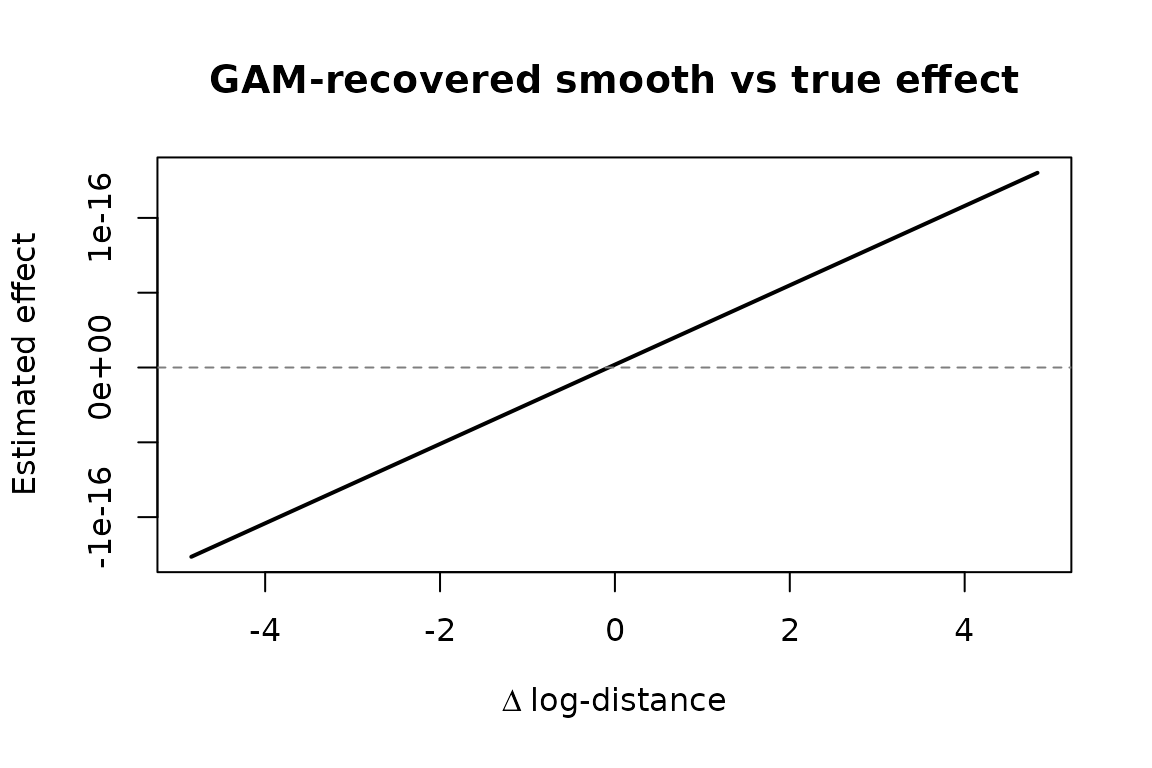
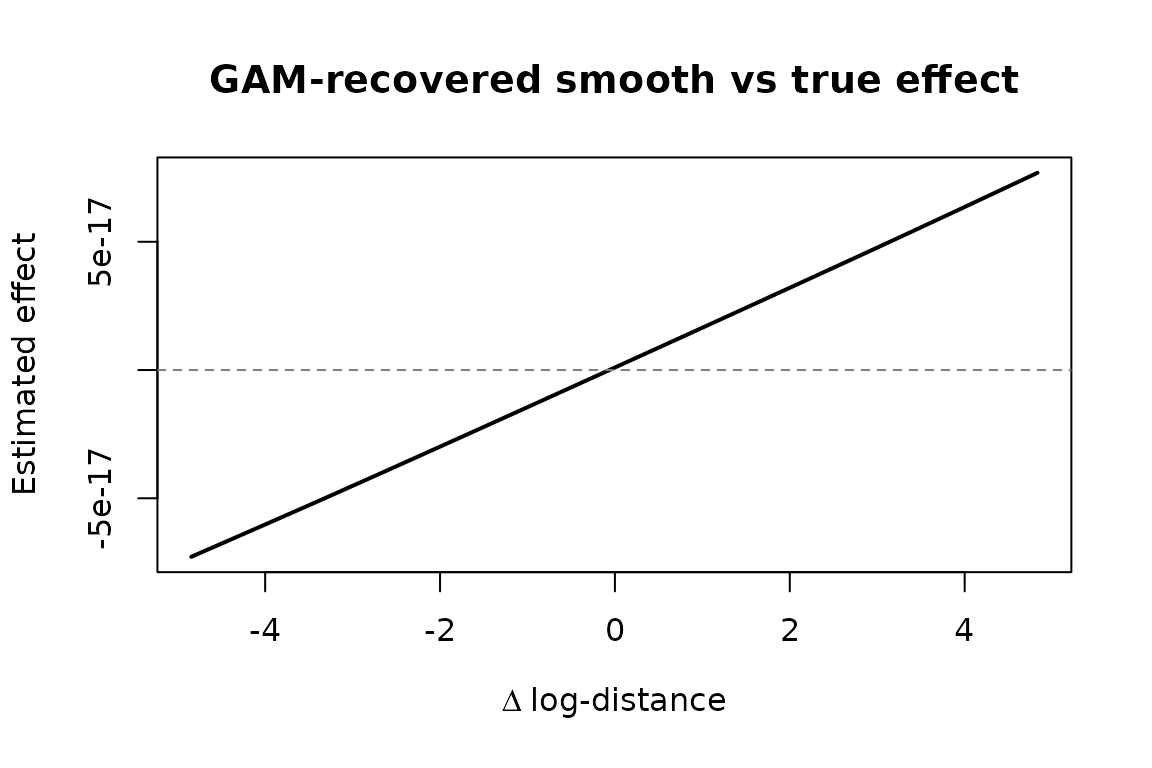
Deploying to gh-pages from @ franciscorichter/amore@3fbfca5582cac013fc1c39b606e87677beb72bbd 🚀

diff --git a/articles/estimation.html b/articles/estimation.html
@@ -618,7 +618,7 @@ Currently linear-effect specs only.</p>
 <hr>
 </div>
 <div class="section level3">
-<h3 id="the-neural-backend-and-related-work">The neural backend and related work<a class="anchor" aria-label="anchor" href="#the-neural-backend-and-related-work"></a>
+<h3 id="the-neural-backend">The neural backend<a class="anchor" aria-label="anchor" href="#the-neural-backend"></a>
 </h3>
 <p><code>amore</code> ships a neural estimation backend,
 <code>rem(method = "nn")</code> (described above): a single multilayer
@@ -630,26 +630,13 @@ additive <code>gam</code> backend cannot — at the cost of a coefficient
 table (effects are recovered post-hoc via partial-dependence plots) and,
 for now, of uncertainty quantification. The implementation is pure R
 with no extra dependencies, so it is reachable directly from
-<code><a href="https://rdrr.io/r/utils/install.packages.html" class="external-link">install.packages()</a></code>.</p>
-<p>This complements <strong>DREAM</strong> (<a href="https://doi.org/10.1016/j.socnet.2024.05.004" class="external-link">Filippi-Mazzola
-&amp; Wit 2024, <em>Social Networks</em> 79, 25-33</a>), the deep
-relational-event model from the same group, which is best seen as
-related prior work rather than part of <code>amore</code>. DREAM is a
-<em>Neural Additive Model</em>: each effect
-<math display="inline" xmlns="http://www.w3.org/1998/Math/MathML"><semantics><mrow><msub><mi>f</mi><mi>k</mi></msub><mo stretchy="false" form="prefix">(</mo><msub><mi>x</mi><mrow><mi>s</mi><mi>r</mi><mi>k</mi></mrow></msub><mo stretchy="false" form="postfix">)</mo></mrow><annotation encoding="application/x-tex">f_k(x_{srk})</annotation></semantics></math>
-is fit by an <strong>independent</strong> feed-forward network — so,
-like <code>gam</code>, it stays additive across effects — trained on the
-same case-1-control partial likelihood, with a <code>torch</code>
-backend and bootstrap / Gaussian-process uncertainty bands. DREAM
-targets very large networks where a spline-basis GAM becomes a memory
-bottleneck. It is not implemented in <code>amore</code>;
-<code>amore</code>’s <code>nn</code> backend takes the complementary,
-interaction-capable (non-additive) route in pure R.</p>
-<p><strong>Future directions.</strong> A DREAM-style additive-NN
-architecture, an optional <code>torch</code> engine for depth and GPU,
-factor embeddings (a neural analogue of <code>re()</code>), and
-uncertainty quantification for <code>method = "nn"</code> are natural
-extensions.</p>
+<code><a href="https://rdrr.io/r/utils/install.packages.html" class="external-link">install.packages()</a></code>. See the <a href="validation-experiments.html">Validation experiments</a> for a
+gradient-correctness check and an interaction-recovery comparison
+against the linear backend.</p>
+<p><strong>Future directions.</strong> An optional <code>torch</code>
+engine for depth and GPU, factor embeddings (a neural analogue of
+<code>re()</code>), and uncertainty quantification for
+<code>method = "nn"</code> are natural extensions.</p>
 </div>
 </div>
   </main><aside class="col-md-3"><nav id="toc" aria-label="Table of contents"><h2>On this page</h2>

diff --git a/articles/exogenous-covariates.html b/articles/exogenous-covariates.html
@@ -193,7 +193,7 @@ event for downstream inference:</p>
 <span><span class="co">#&gt;               edf Ref.df Chi.sq p-value</span></span>
 <span><span class="co">#&gt; s(delta_dist)   1      1      0       1</span></span>
 <span><span class="co">#&gt; </span></span>
-<span><span class="co">#&gt; R-sq.(adj) =   -Inf   Deviance explained = -Inf%</span></span>
+<span><span class="co">#&gt; R-sq.(adj) =    NaN   Deviance explained = -Inf%</span></span>
 <span><span class="co">#&gt; UBRE = 0.38879  Scale est. = 1         n = 800</span></span></code></pre></div>
 </div>
 <div class="section level2">

diff --git a/articles/estimation.md b/articles/estimation.md
@@ -463,7 +463,7 @@ Currently linear-effect specs only.
 
 ------------------------------------------------------------------------
 
-### The neural backend and related work
+### The neural backend
 
 `amore` ships a neural estimation backend, `rem(method = "nn")`
 (described above): a single multilayer perceptron scores every candidate
@@ -475,21 +475,11 @@ table (effects are recovered post-hoc via partial-dependence plots) and,
 for now, of uncertainty quantification. The implementation is pure R
 with no extra dependencies, so it is reachable directly from
 [`install.packages()`](https://rdrr.io/r/utils/install.packages.html).
+See the [Validation
+experiments](https://franciscorichter.github.io/amore/articles/validation-experiments.md)
+for a gradient-correctness check and an interaction-recovery comparison
+against the linear backend.
 
-This complements **DREAM** ([Filippi-Mazzola & Wit 2024, *Social
-Networks* 79, 25-33](https://doi.org/10.1016/j.socnet.2024.05.004)), the
-deep relational-event model from the same group, which is best seen as
-related prior work rather than part of `amore`. DREAM is a *Neural
-Additive Model*: each effect $`f_k(x_{srk})`$ is fit by an
-**independent** feed-forward network — so, like `gam`, it stays additive
-across effects — trained on the same case-1-control partial likelihood,
-with a `torch` backend and bootstrap / Gaussian-process uncertainty
-bands. DREAM targets very large networks where a spline-basis GAM
-becomes a memory bottleneck. It is not implemented in `amore`; `amore`’s
-`nn` backend takes the complementary, interaction-capable (non-additive)
-route in pure R.
-
-**Future directions.** A DREAM-style additive-NN architecture, an
-optional `torch` engine for depth and GPU, factor embeddings (a neural
-analogue of `re()`), and uncertainty quantification for `method = "nn"`
-are natural extensions.
+**Future directions.** An optional `torch` engine for depth and GPU,
+factor embeddings (a neural analogue of `re()`), and uncertainty
+quantification for `method = "nn"` are natural extensions.

diff --git a/articles/exogenous-covariates.md b/articles/exogenous-covariates.md
@@ -126,7 +126,7 @@ summary(fit)
 #>               edf Ref.df Chi.sq p-value
 #> s(delta_dist)   1      1      0       1
 #> 
-#> R-sq.(adj) =   -Inf   Deviance explained = -Inf%
+#> R-sq.(adj) =    NaN   Deviance explained = -Inf%
 #> UBRE = 0.38879  Scale est. = 1         n = 800
 ```
 